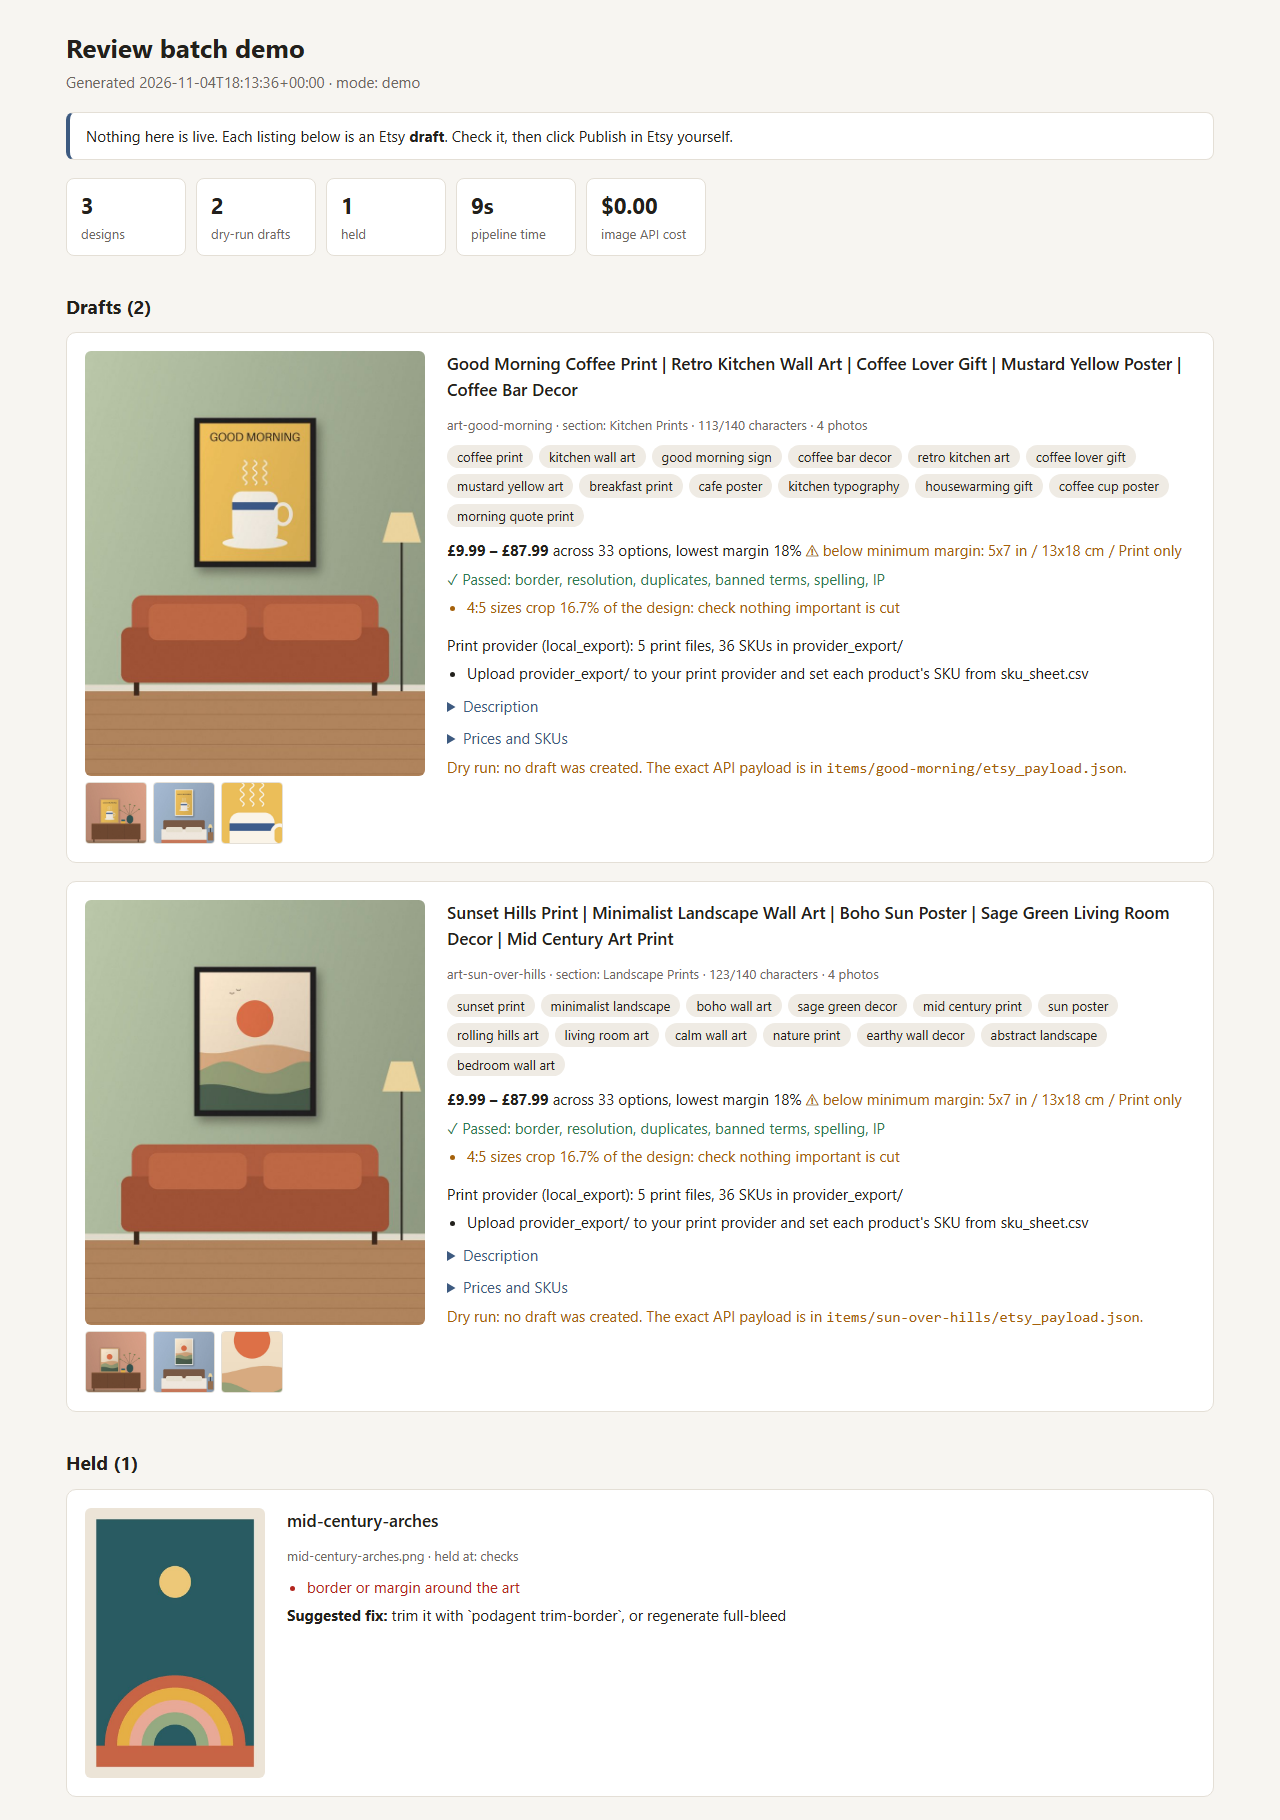
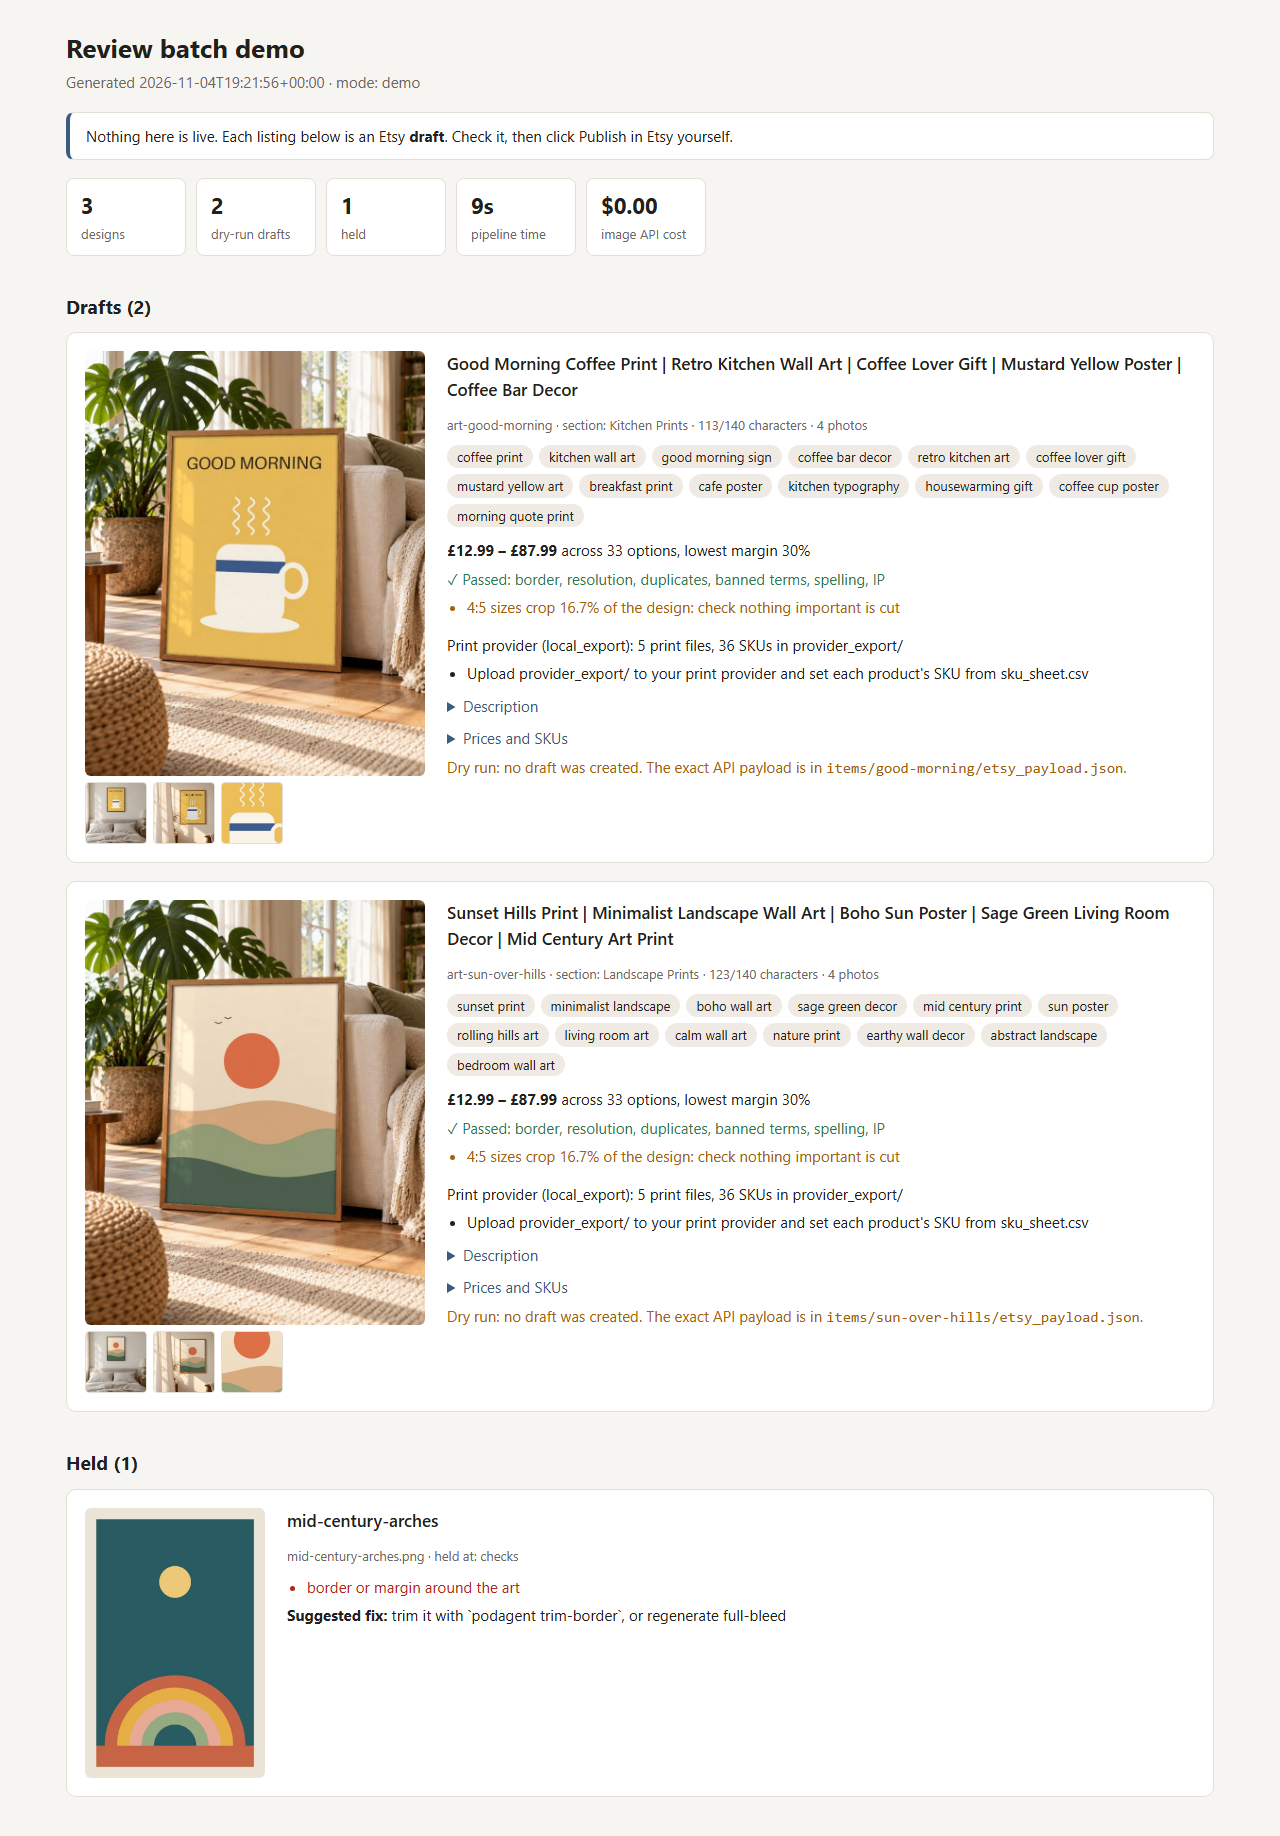
Add CI badge and sample-image licence note; tighten README; retake screenshots

diff --git a/README.md b/README.md
@@ -1,5 +1,7 @@
 # etsy-pod-agent
 
+[![tests](https://github.com/masonbudd/etsy-pod-agent/actions/workflows/tests.yml/badge.svg)](https://github.com/masonbudd/etsy-pod-agent/actions/workflows/tests.yml)
+
 Claude Code skills and a Python pipeline that turn print-on-demand wall-art designs into
 checked Etsy **draft** listings, with room mockups, listing copy, prices, print files and a
 review page. A person approves at two points, and the shop owner always clicks Publish.
@@ -104,11 +106,12 @@ It runs both modes, each in its own sample workspace:
   dry-run drafts.
 
 All code steps run for real: research ranking, concept validation and costing, the Gate 1
-record, checks, upscaling, print files, room calibration, mockups, copy validation,
-pricing, the print-file export, the exact Etsy API payload, the review page and the report.
-The judgement steps (concepts, visual review, copy) replay outputs Claude wrote for these
-samples (`samples/recorded/`). The sample keyword numbers are invented. The sample designs
-and rooms are drawn in code (`scripts/make_samples.py`).
+record, checks, upscaling, print files, mockups, copy validation, pricing, the print-file
+export, the exact Etsy API payload, the review page and the report. The judgement steps
+(concepts, visual review, copy) replay outputs Claude wrote for these samples
+(`samples/recorded/`). The sample keyword numbers are invented. The sample designs are drawn
+in code (`scripts/make_samples.py`). The three sample rooms ship with their frame
+calibration; the tests check the calibrator finds the same corners.
 
 ## How approval works, and why
 
@@ -168,7 +171,6 @@ payloads, and the secret scanner.
 ## Limitations
 
 - Portrait designs only.
-- Not run live from this repository. Start with a dry run and check your first drafts in Etsy.
 - Etsy attributes used for search filters (colour, room, subject) are not set.
 - EU product-safety (GPSR) fields are not set.
 - One currency per shop. VAT or sales tax on your own prices is not modelled.
@@ -181,20 +183,19 @@ payloads, and the secret scanner.
 - Image costs are estimates from your config, not OpenAI's bill.
 - Generated room templates vary. Calibration rejects ones without a clear grey frame, but
   check each by eye before approving.
-- The sample rooms are flat illustrations. Swap in your own room photos (`rooms/rooms.toml`, then `podagent rooms-calibrate`).
+- The sample rooms are for the demo. Generate your own in `/setup-shop`, or add your own room
+  photos (`rooms/rooms.toml`, then `podagent rooms-calibrate`).
 
 ## Results
 
-Generalised from the author's production workflow, which put over 300 prints live and cut
-listing time from nearly an hour to a few minutes. This repository is a rewrite of that
-workflow for any shop; its code did not produce those numbers.
+Generalised from the author's production workflow, which put over 300 prints live and cut listing time from nearly an hour to a few minutes.
 
 ## Project layout
 
 ```
 .claude/skills/        setup-shop and create-listings skills
 src/podagent/          pipeline: checks, images, Etsy, providers, review page, report
-samples/               sample designs, rooms and recorded Claude outputs for the demo
+samples/               demo-only designs, rooms and recorded Claude outputs
 scripts/               secret scan, sample drawing
 tests/                 pytest suite
 docs/                  providers, browser adapter, screenshot
@@ -204,4 +205,5 @@ Contributors: enable the secret-scan hook with `git config core.hooksPath .githo
 
 ## License
 
-MIT
+MIT, for the code and documentation. The images in `samples/` are for the demo only and are
+not covered by the MIT licence.
